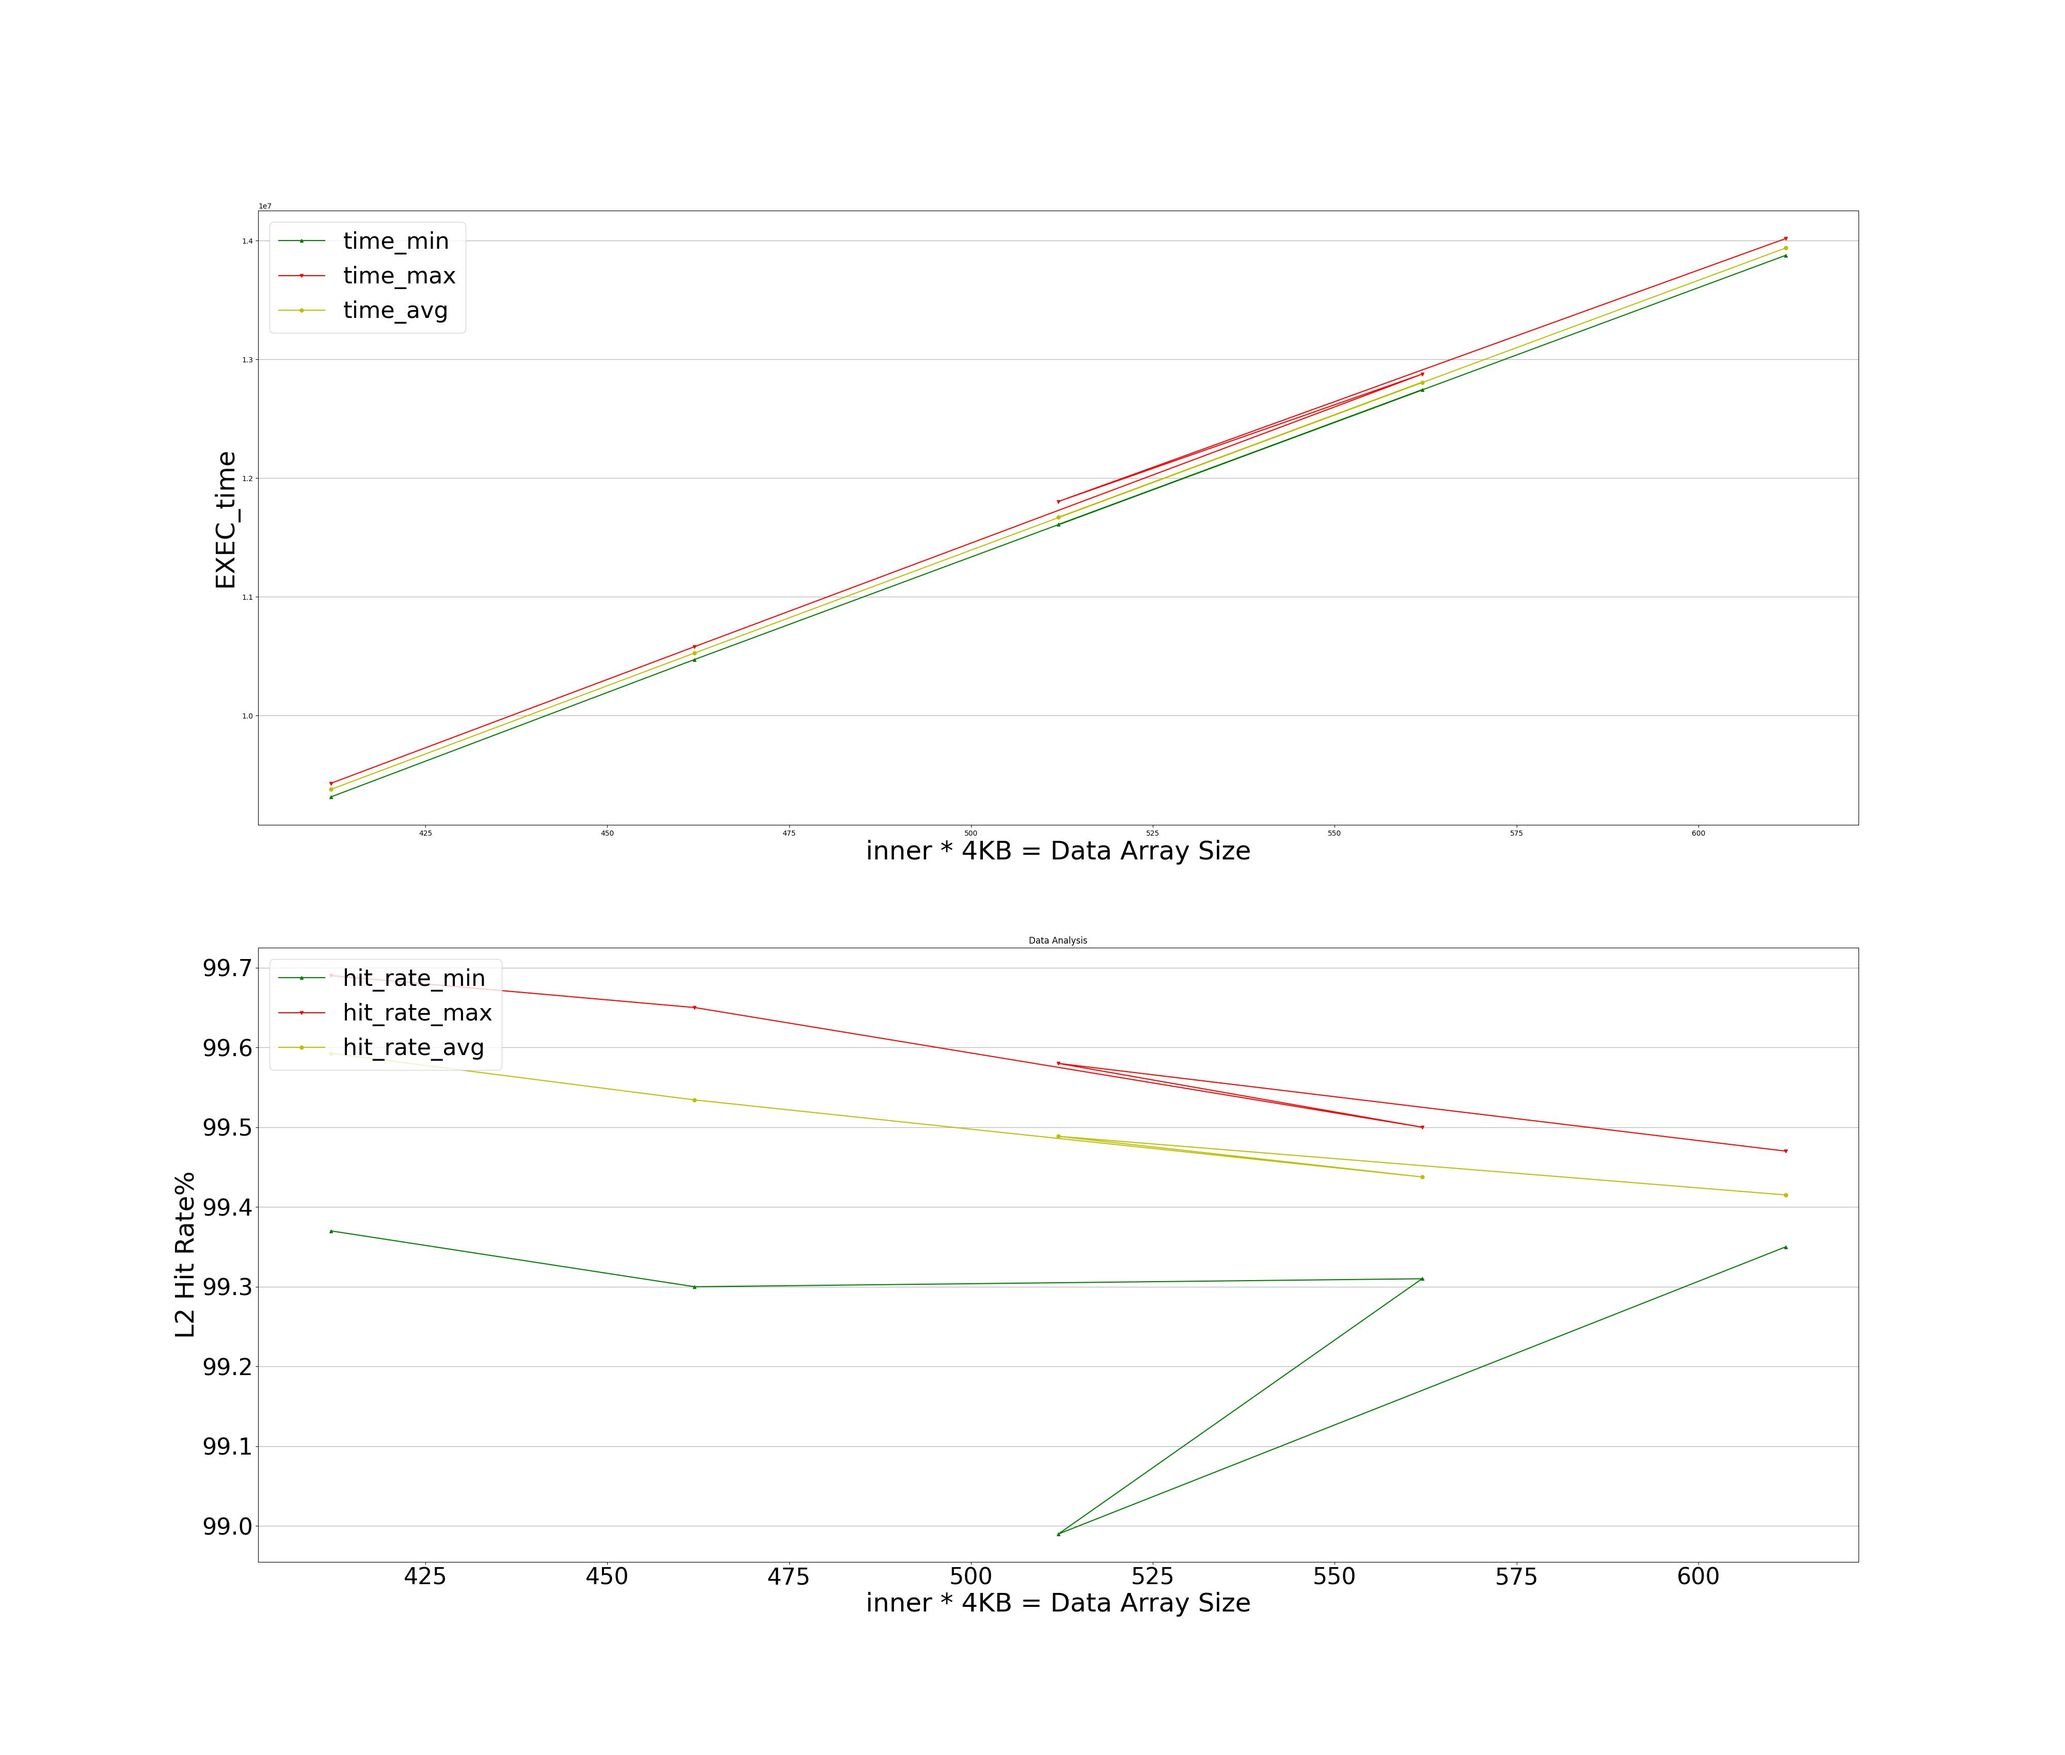
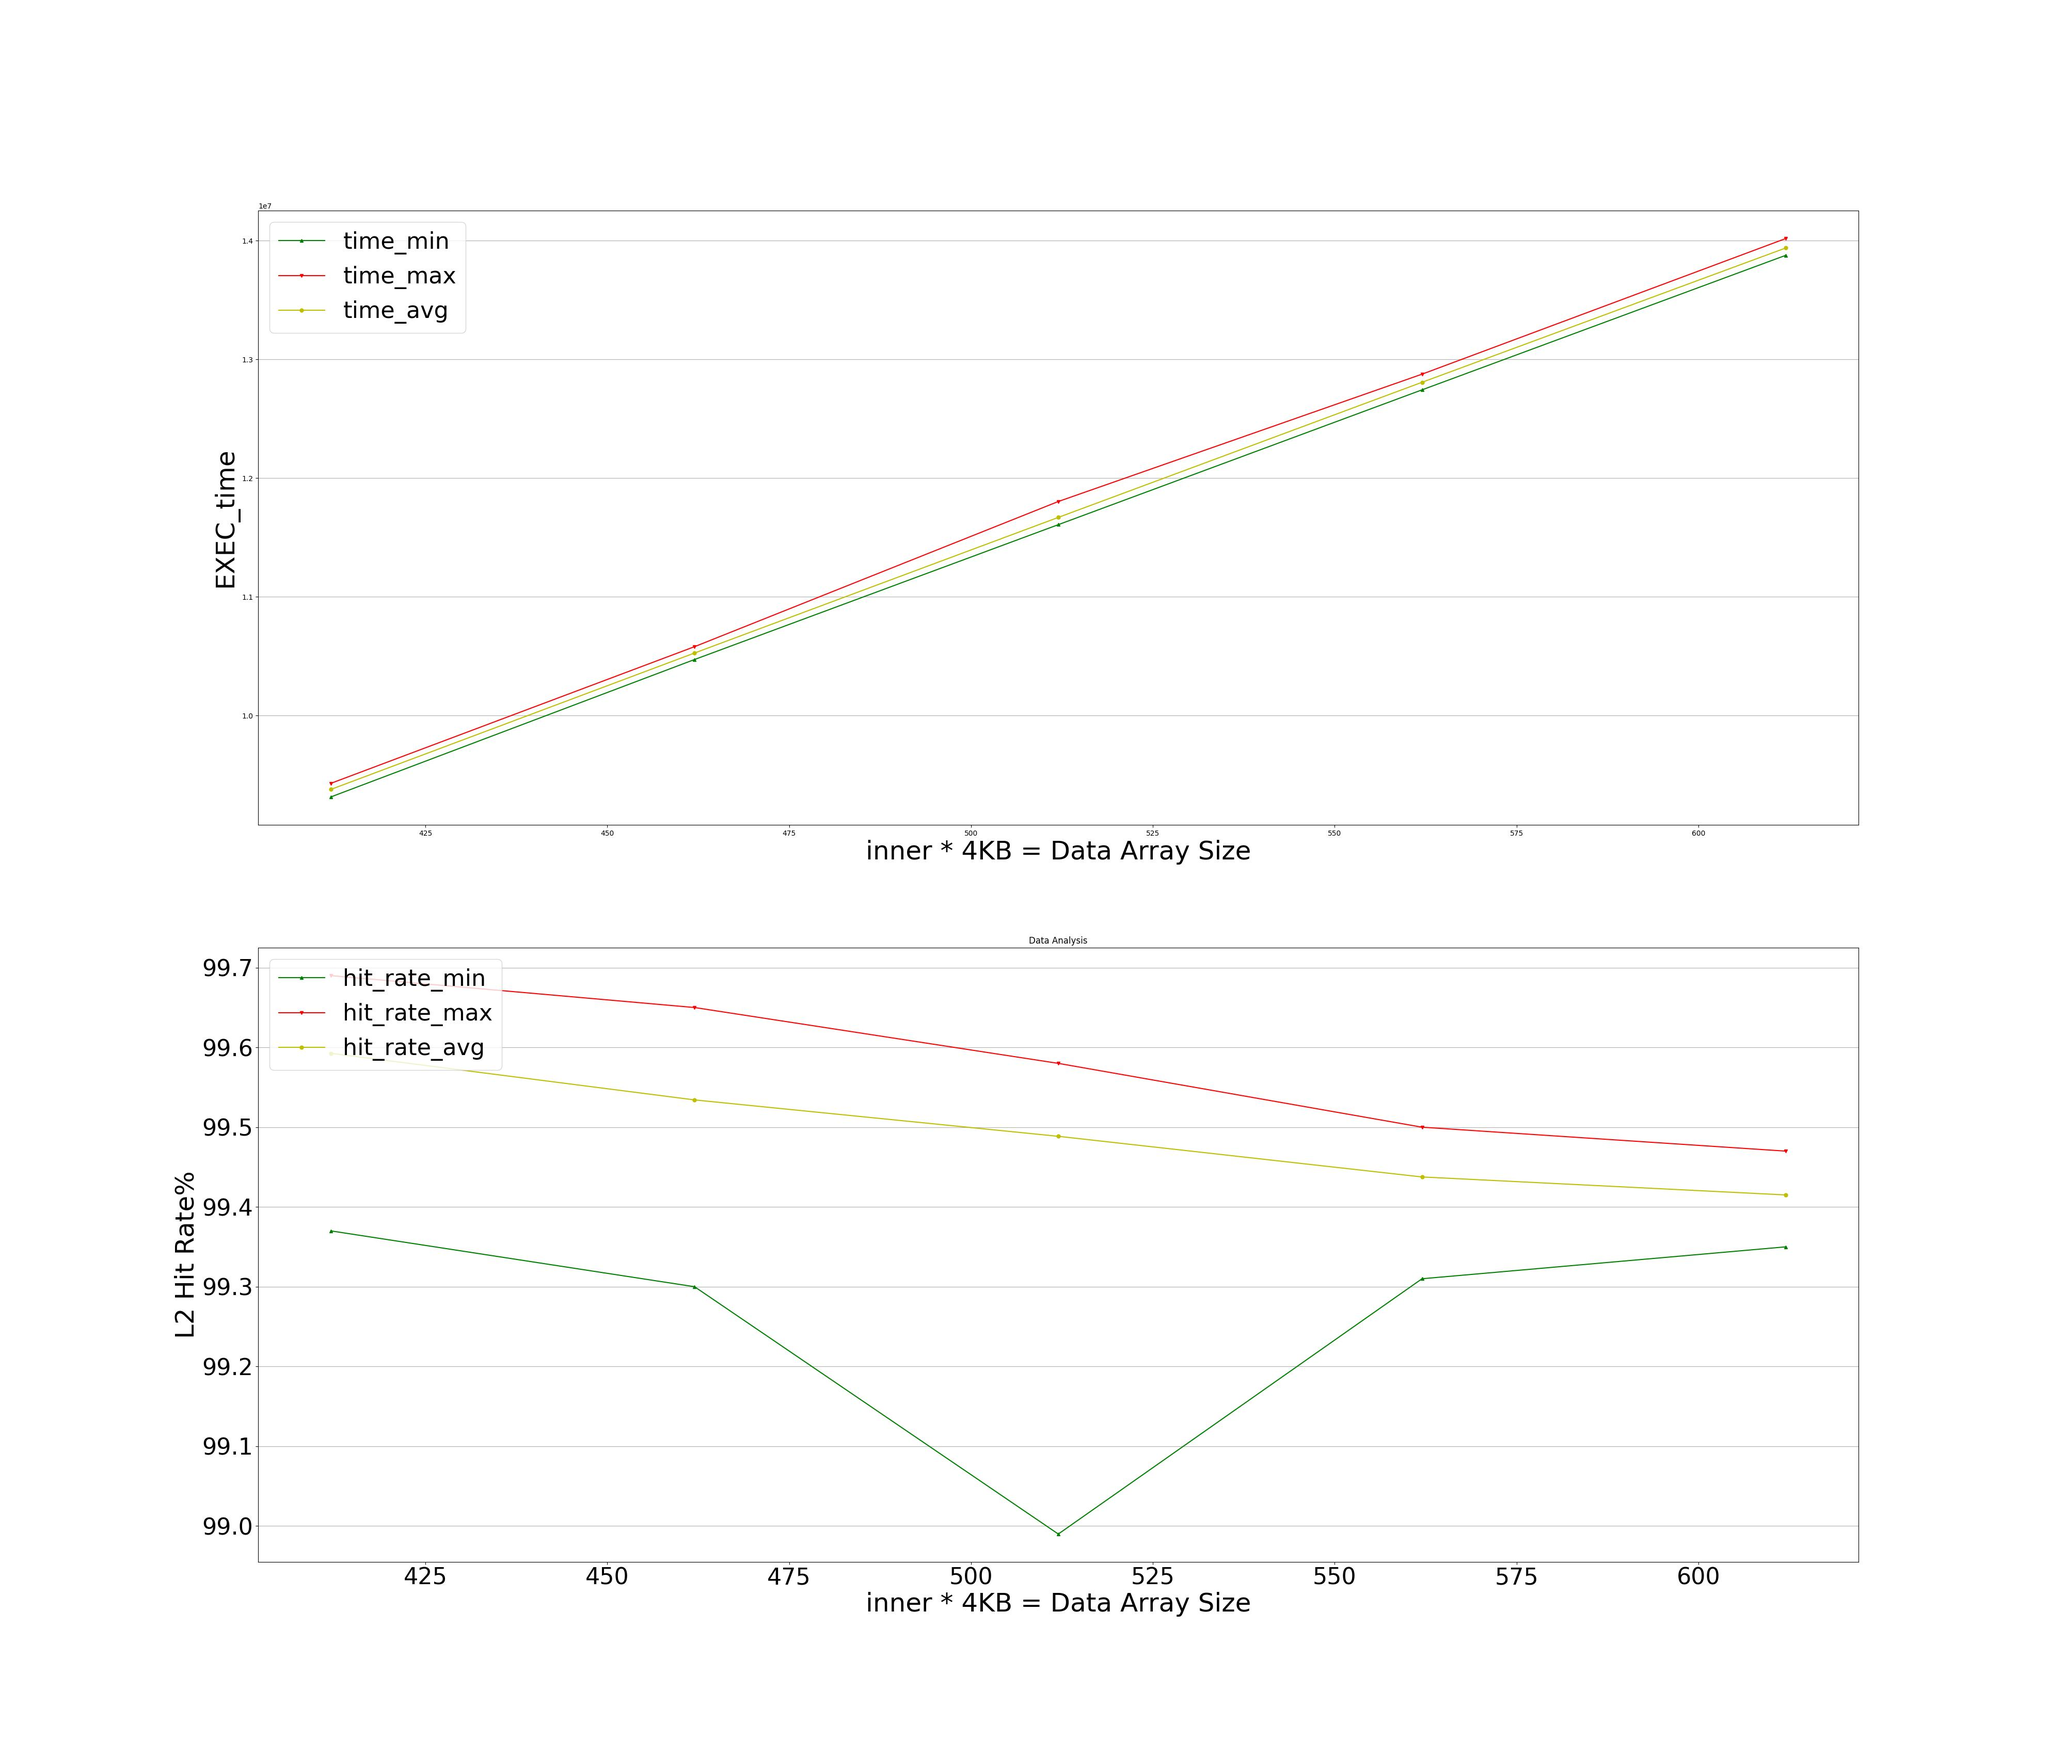
按照inner排序后再绘制data_analysis

diff --git a/cuda/src/dissect_page/draw.py b/cuda/src/dissect_page/draw.py
@@ -118,6 +118,8 @@ for file in csvlist:
 # 创建两个子图 -- 图3
 f, (time, hit) = plt.subplots(2, 1, figsize=(40, 34))
 data_analysis = np.array(data_analysis)
+# 所有数据的对比图，按照inner排序后再绘制
+data_analysis = data_analysis[data_analysis[:,0].argsort()]
 inner_list = data_analysis[:, 0]
 time_min = data_analysis[:, 1]
 time_max = data_analysis[:, 2]
